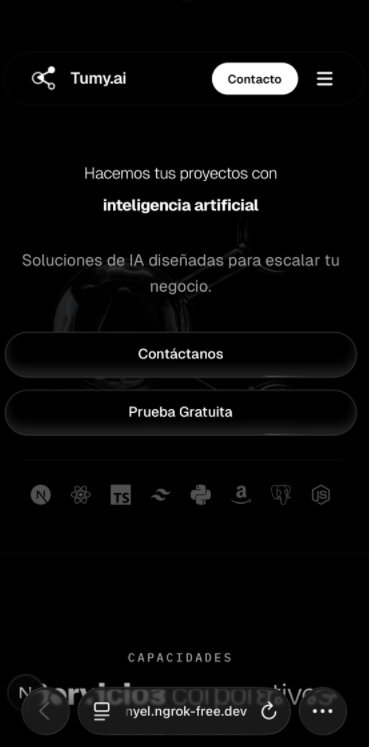
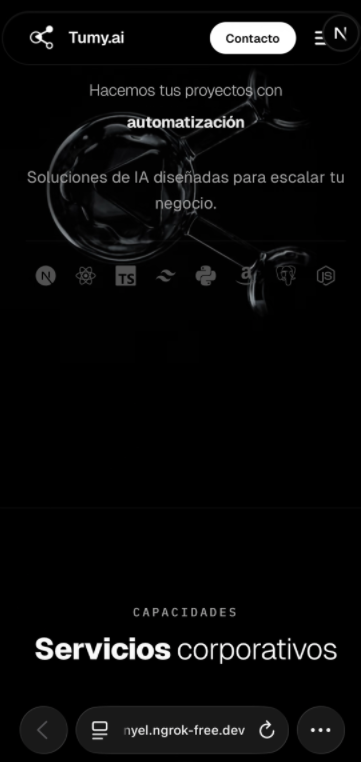
refactor: optimize smooth scrolling logic, update introduction typography, and replace body overflow property

diff --git a/src/components/SmoothScroll/SmoothScroll.tsx b/src/components/SmoothScroll/SmoothScroll.tsx
@@ -3,23 +3,19 @@
 import { useEffect } from "react";
 import Lenis from "lenis";
 
-/** Returns true if the device is a touch device or Safari on iOS/iPadOS.
- *  On those devices, the native momentum scroll is GPU-accelerated and
- *  much smoother than a JS RAF loop — so we skip Lenis entirely. */
+/** Returns true if the device is a mobile touch device.
+ *  On mobile touch devices, native inertia scrolling is hardware-accelerated
+ *  by iOS/Android, so we let the browser handle touch natively.
+ *  On Desktop Safari / Mac Trackpads, Lenis handles smooth wheel scrolling. */
 function shouldDisableLenis(): boolean {
   if (typeof window === "undefined" || typeof navigator === "undefined")
     return false;
 
-  // Detect touch-primary devices (phones, tablets)
-  const isTouch =
+  return (
+    ("ontouchstart" in window) ||
     navigator.maxTouchPoints > 0 ||
-    ("ontouchstart" in window);
-
-  // Detect Safari (includes iOS WebView)
-  const isSafari =
-    /^((?!chrome|android).)*safari/i.test(navigator.userAgent);
-
-  return isTouch || isSafari;
+    window.innerWidth < 768
+  );
 }
 
 export default function SmoothScroll() {
@@ -28,9 +24,10 @@ export default function SmoothScroll() {
     if (shouldDisableLenis()) return;
 
     const lenis = new Lenis({
-      duration: 1.2,
+      duration: 1.0,
       easing: (t) => Math.min(1, 1.001 - Math.pow(2, -10 * t)),
       smoothWheel: true,
+      touchMultiplier: 1.5,
     });
 
     let rafId: number;

diff --git a/src/views/Home/Introduction.tsx b/src/views/Home/Introduction.tsx
@@ -70,13 +70,13 @@ export default function Introduction() {
         </div>
 
         <div className="space-y-6 max-w-lg mx-auto my-auto pt-6 pb-12">
-          <h1 className="text-3.5xl font-bold leading-tight tracking-tight">
+          <h1 className="text-3xl md:text-5xl font-extrabold leading-tight tracking-tight">
             <span className="text-neutral-900 dark:text-neutral-100 font-light block mb-1">
               {t("introduction.headingPrefix")}
             </span>
             <WordRotate
               words={t("introduction.words")}
-              className="inline-block"
+              className="inline-block font-extrabold"
             />
           </h1>
 

diff --git a/src/app/globals.css b/src/app/globals.css
@@ -209,8 +209,13 @@
     @apply border-border outline-ring/50;
   }
 
+  html {
+    scroll-behavior: smooth;
+    -webkit-overflow-scrolling: touch;
+  }
+
   body {
-    @apply bg-background text-foreground relative overflow-x-hidden;
+    @apply bg-background text-foreground relative overflow-x-clip;
   }
 }
 
